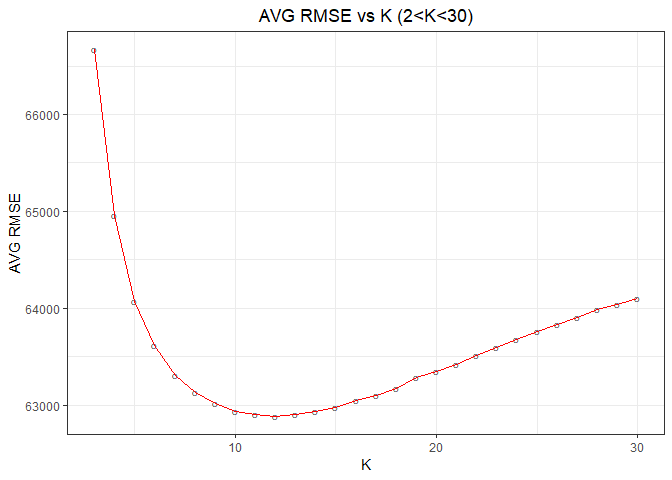
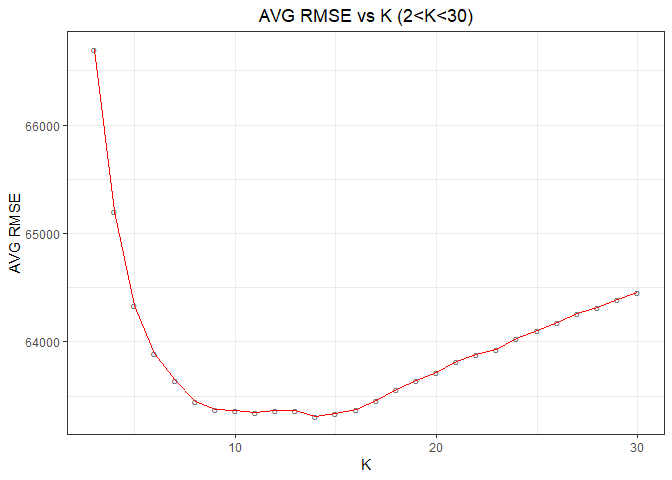
commit

diff --git a/HW2/report/Exercise_2_report.md b/HW2/report/Exercise_2_report.md
@@ -14,13 +14,13 @@ The performance of the models are mesured with average out-of-sample RMSE. We us
 
 |         | AVG RMSE |
 |---------|:--------:|
-| model 1 | 66593.63 |
-| model 2 | 66332.52 |
-| model 3 | 60676.64 |
-| model 4 | 60612.06 |
-| model 5 | 60021.57 |
-| model 6 | 60367.75 |
-| model 7 | 61066.64 |
+| model 1 | 66870.62 |
+| model 2 | 66616.43 |
+| model 3 | 60770.27 |
+| model 4 | 60674.10 |
+| model 5 | 60097.92 |
+| model 6 | 60448.47 |
+| model 7 | 61251.15 |
 
 The best model that we solved is model 5. This model beats all the other models that we choose by having a smaller average RMSE of around 60000, while the average RMSE of the baseline model is around 66000. The regression result is:
 
@@ -90,10 +90,10 @@ The average deviance of the models are listed in the following table:
 
 |          | AVG Deviation for Different Models |
 |----------|:----------------------------------:|
-| Baseline |              1.473208              |
-| Model 1  |              1.545771              |
-| Model 2  |              1.514027              |
-| Model 3  |              1.420707              |
+| Baseline |              1.471985              |
+| Model 1  |              1.502621              |
+| Model 2  |              1.518575              |
+| Model 3  |              1.406967              |
 
 From the table we can tell that the Model 3 has the lowest average deviation, which means we can perform better than the doctors currently do if they give more weight on the terms in Model 3.
 
@@ -115,19 +115,19 @@ To compare the result, we made some predictions with the baseline model and the 
 
 The confusion matrix for the baseline model using the entire dataset is:
 
-|     |  0  |  1  |
-|-----|:---:|:---:|
-| 0   | 824 | 126 |
-| 1   |  15 |  22 |
+|     | prediction = 0 | prediction = 1 |
+|-----|:--------------:|:--------------:|
+| 0   |       824      |       126      |
+| 1   |       15       |       22       |
 
 The accuracy rate is (824+22)/987 = 85.7%, the true positive rate is 22/(22+15) = 59.5%, the specificity is 22/(126+22) = 14.9%.
 
 The confusion matrix for the model using the entire dataset is:
 
-|     |  0  |  1  |
-|-----|:---:|:---:|
-| 0   | 797 | 153 |
-| 1   |  14 |  23 |
+    ##            yhatB
+    ## brca$cancer   0   1
+    ##           0 797 153
+    ##           1  14  23
 
 The accuracy rate is (797+23)/987 = 83.1%, the true positive rate is 23/(23+14) = 62.2%, the specificity is 23/(153+23) = 13.1%.
 
